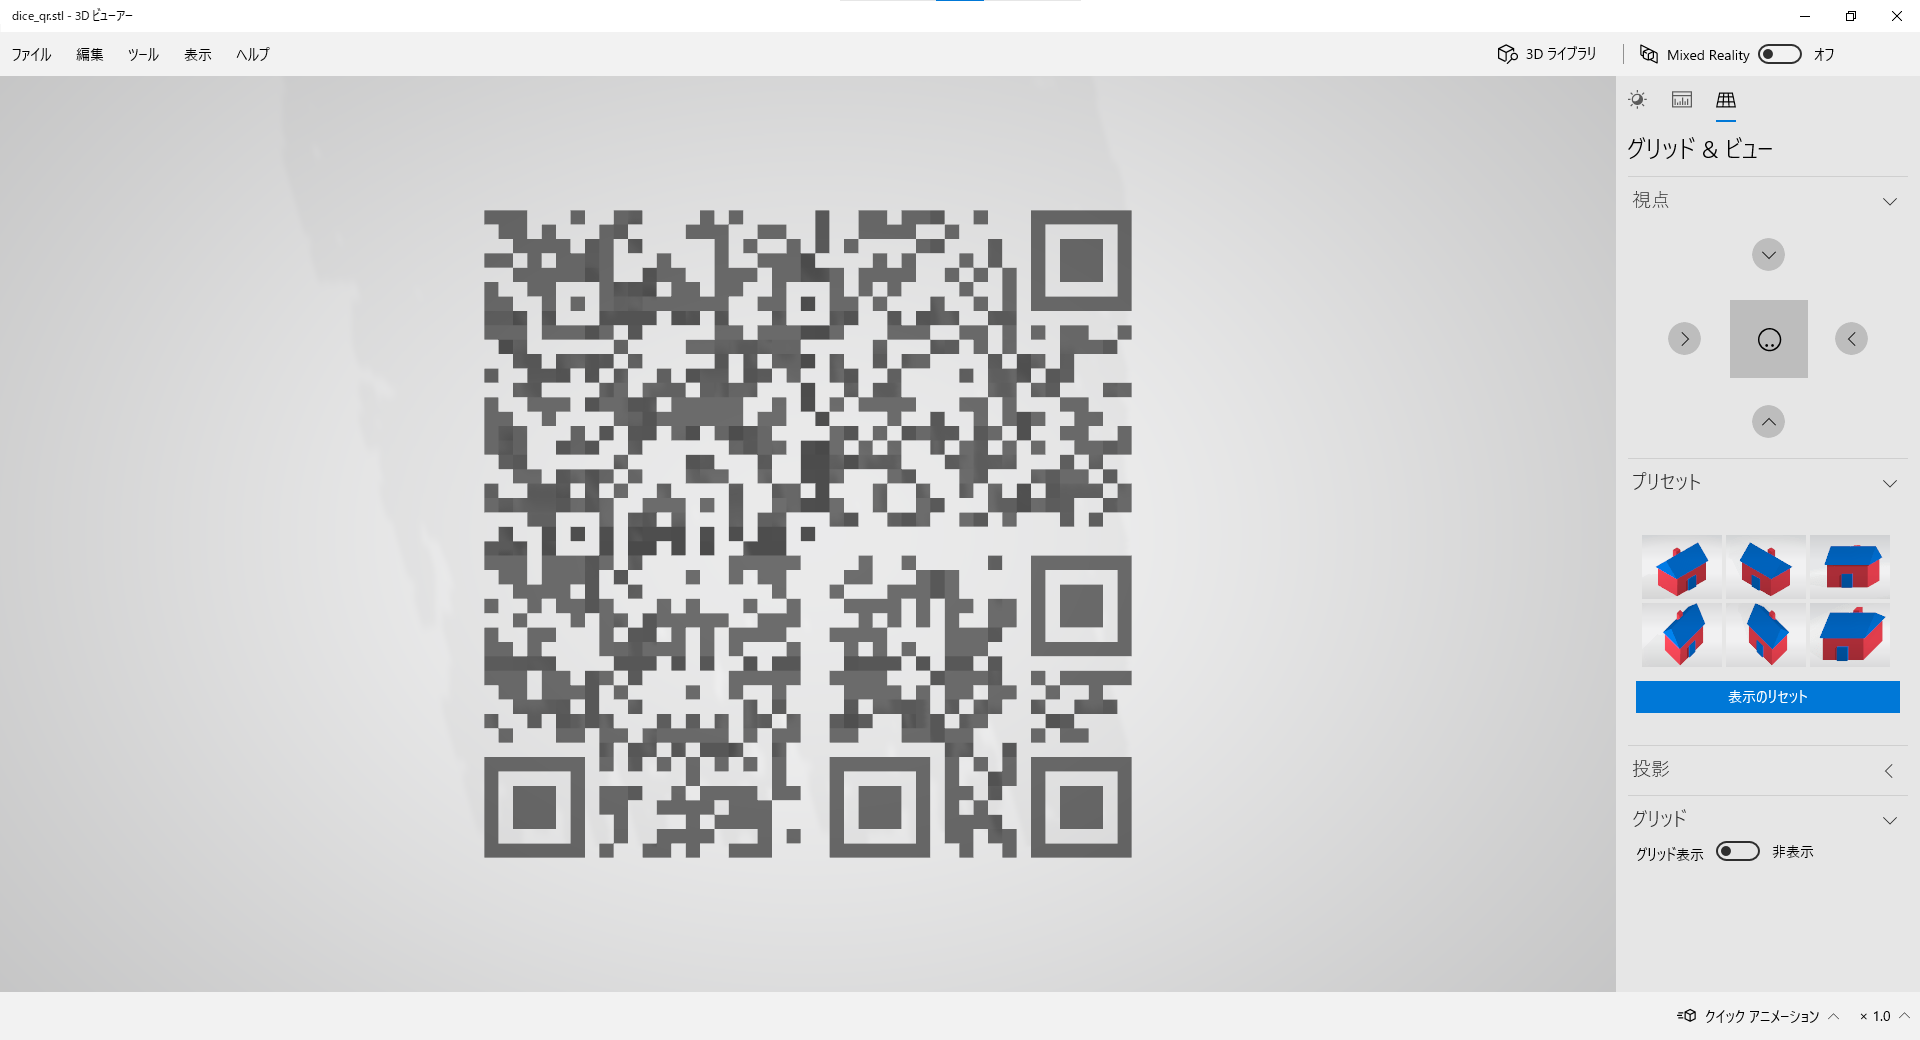
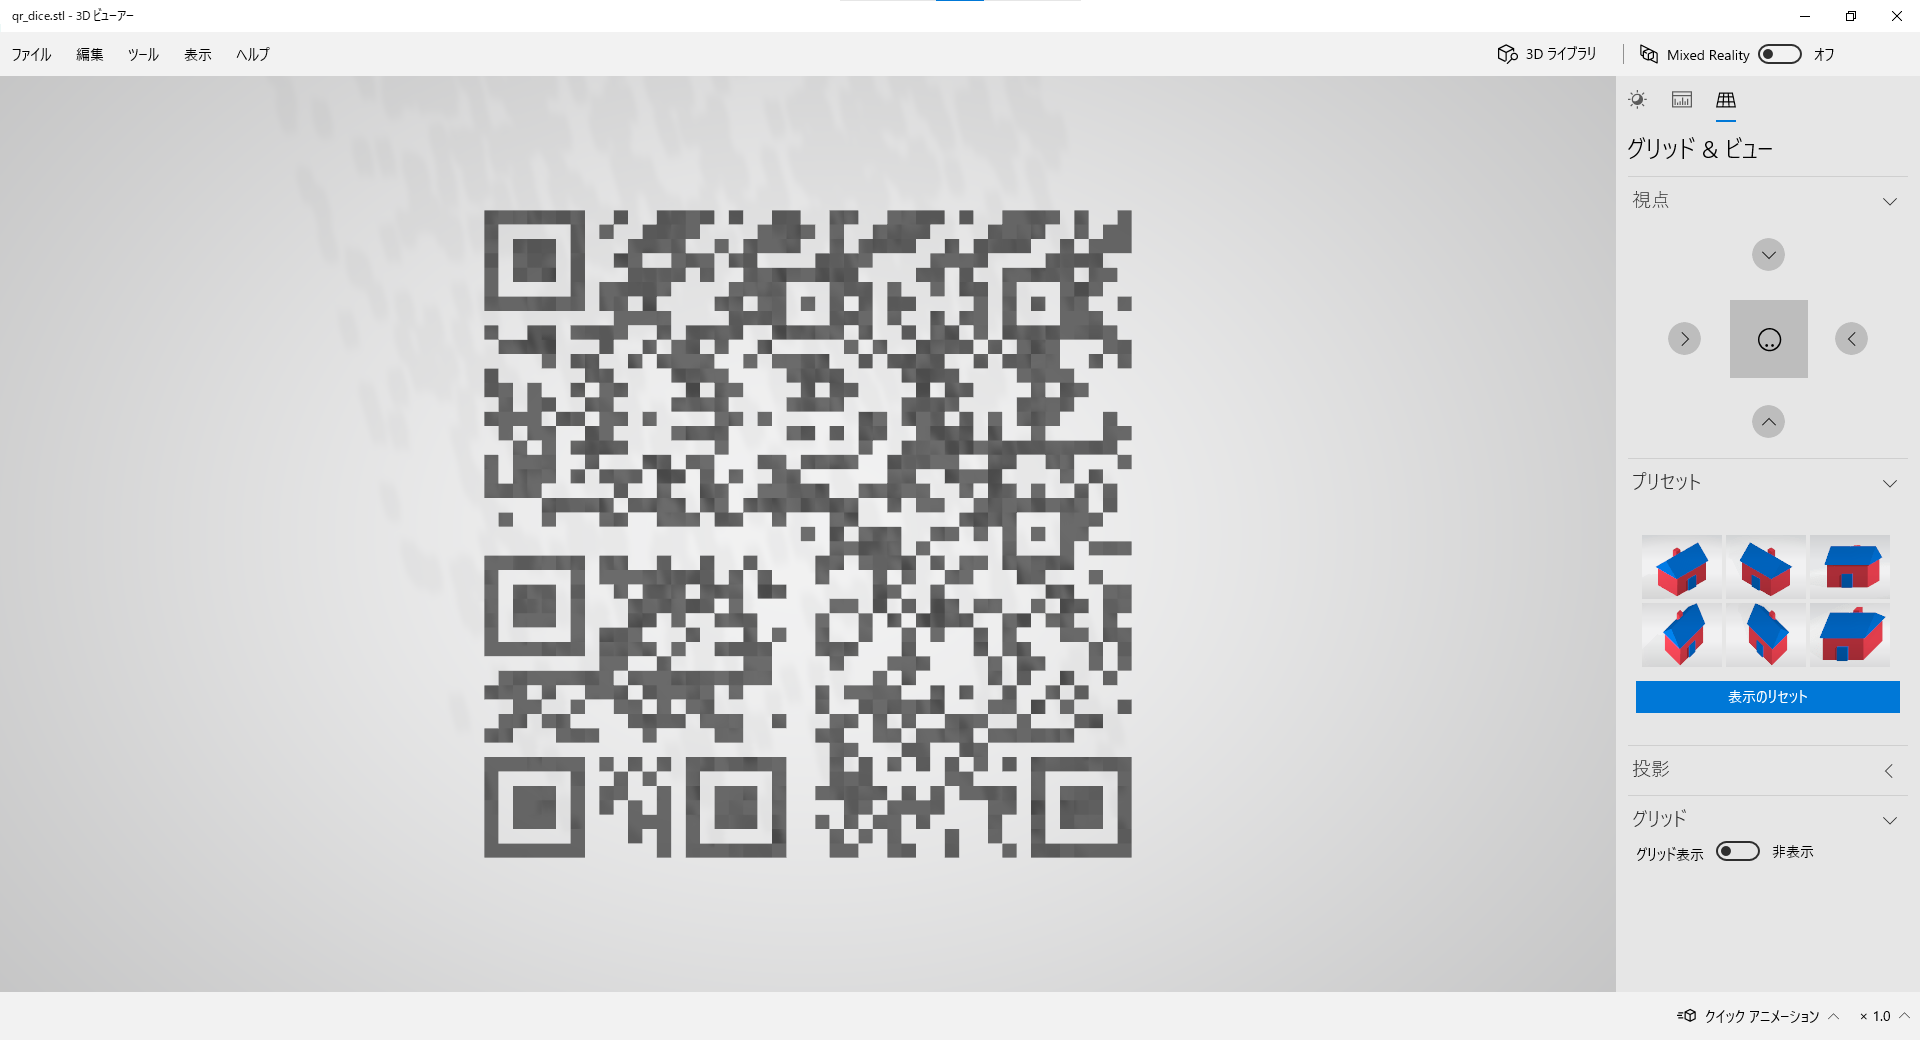
Change algorithm

Changed region(s): [[0.25, 0.1846, 0.5938, 0.8308], [0.0312, 0.0, 0.0625, 0.0308]]

diff --git a/make_dice.py b/make_dice.py
@@ -1,11 +1,8 @@
+import random
 import qrcode
 import numpy as np
 from cube_model import cube_model
 from stl import mesh
-# TOO SLOW
-PLT_3D = False
-if PLT_3D:
-    import matplotlib.pyplot as plt
 
 
 def cube_at(x, y, z):
@@ -62,31 +59,34 @@ assert len(m1_6) == len(m2_5) == len(m3_4)
 
 S = len(m1_6)
 
-voxel_qr = np.full((S,)*3, True)
+voxel_qr = np.zeros((S,)*3)
 
-
-for j in range(S):
-    for i in range(S):
-        if not m1_6[j][S-1-i]:
-            for k in range(S):
-                voxel_qr[i][j][k] = False
-
-for k in range(S):
-    for j in range(S):
-        if not m2_5[S-1-k][j]:
-            for i in range(S):
-                voxel_qr[i][j][k] = False
 
 for i in range(S):
-    for k in range(S):
-        if not m3_4[S-1-i][S-1-k]:
-            for j in range(S):
-                voxel_qr[i][j][k] = False
+    for j in range(S):
+        for k in range(S):
+            voxel_qr[i][j][k] = m1_6[i][j] and \
+                m2_5[j][k] and m3_4[k][i]
 
-if PLT_3D:
-    ax = plt.subplot(projection='3d')
-    ax.voxels(voxel_qr, color='black')
-    plt.show()
+c1_6 = np.zeros((S, S))
+c2_5 = np.zeros((S, S))
+c3_4 = np.zeros((S, S))
+for i in range(S):
+    for j in range(S):
+        for k in range(S):
+            if voxel_qr[i][j][k]:
+                c1_6[i][j] += 1
+                c2_5[j][k] += 1
+                c3_4[k][i] += 1
+
+for i in random.sample(range(S), S):
+    for j in random.sample(range(S), S):
+        for k in random.sample(range(S), S):
+            if c1_6[i][j] > 1 and c2_5[j][k] > 1 and c3_4[k][i] > 1:
+                voxel_qr[i][j][k] = False
+                c1_6[i][j] -= 1
+                c2_5[j][k] -= 1
+                c3_4[k][i] -= 1
 
 mesh_qr = voxel_to_mesh(voxel_qr)
 

diff --git a/README.md b/README.md
@@ -1,10 +1,14 @@
 # QR Dice
 
+![Demo](img/demo.gif)
+
+(Made in [aconvert.com](https://www.aconvert.com/video/mp4-to-gif/))
+
 ![QR Dice](img/f_dice.png)
 
 ![1](img/f_1.png)
 
-# Read with [QRQR](https://www.denso-wave.com/ja/system/qr/product/reader.html)
+# Read with [QRQR](https://www.denso-wave.com/en/system/qr/product/reader.html)
 
 # Require python module
 
@@ -13,5 +17,3 @@ qrcode
 numpy
 
 numpy-stl
-
-(matplotlib)
